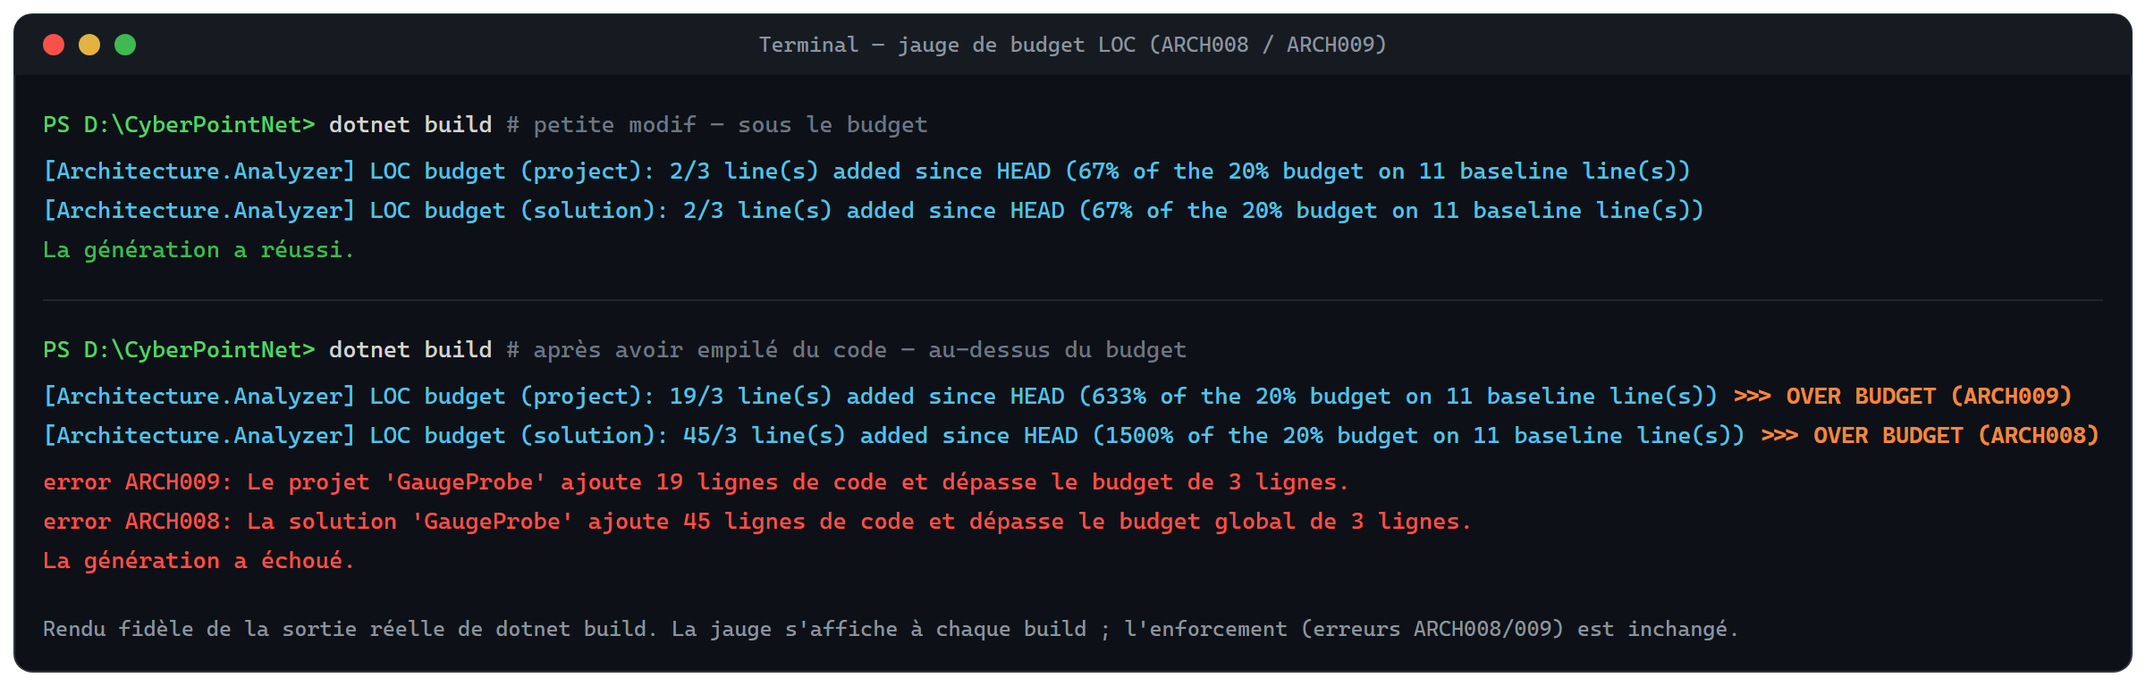
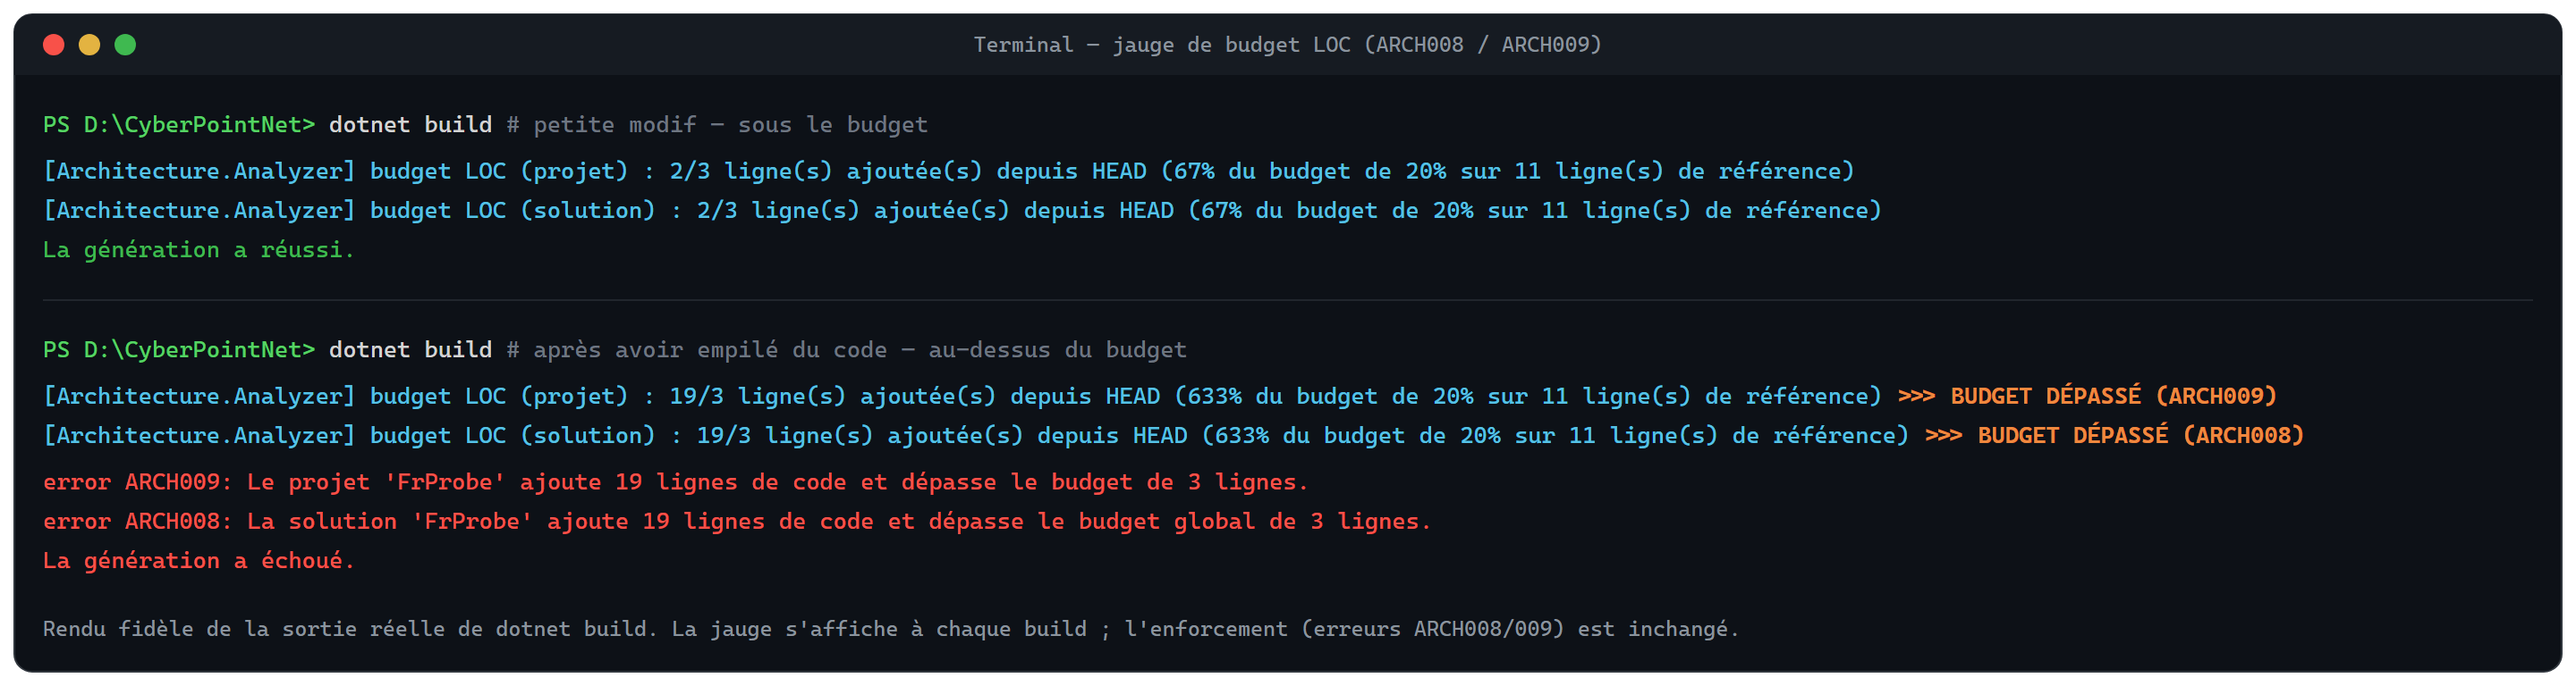
ARCH008/ARCH009 : jauge de budget localisee (FR/EN) + image dans le README
- La jauge par build suit desormais la culture UI du build (francais par defaut,
  anglais si la culture est "en"), comme les diagnostics ARCHxxx. Implemente via
  CultureInfo.CurrentUICulture dans la tache MSBuild (une tache inline ne peut pas
  utiliser les satellites .resx de l'analyseur).
- README racine + README du package illustrent la jauge (capture terminal francaise
  docs/loc-budget-gauge.png ; le README NuGet la reference via une URL absolue
  raw.githubusercontent.com pour s'afficher sur nuget.org).
- Version 1.6.1 -> 1.6.2.

diff --git a/Architecture.Analyzer/README.md b/Architecture.Analyzer/README.md
@@ -150,7 +150,9 @@ dotnet build /p:ArchitectureLocProjectBaselineLines=1000 \
              /p:ArchitectureLocSolutionAddedLines=120
 ```
 
-**Per-build gauge.** Whenever a budget percentage is set, the shipped MSBuild target prints the current usage on **every** build (project and solution), e.g. `[Architecture.Analyzer] LOC budget (project): 12/50 line(s) added since HEAD (24% of the 20% budget on 250 baseline line(s))`. This makes the pressure visible continuously — not only when the budget is blown — so you can course-correct before hitting the wall. Going over adds a `>>> OVER BUDGET (ARCHxxx)` marker (and ARCH008/ARCH009 still fail the build). The message reads the same `loc_budget_percent_*` keys from your `.editorconfig`, and is suppressed during IDE design-time builds.
+**Per-build gauge.** Whenever a budget percentage is set, the shipped MSBuild target prints the current usage on **every** build (project and solution), e.g. `[Architecture.Analyzer] LOC budget (project): 12/50 line(s) added since HEAD (24% of the 20% budget on 250 baseline line(s))`. This makes the pressure visible continuously — not only when the budget is blown — so you can course-correct before hitting the wall. Going over adds a `>>> OVER BUDGET (ARCHxxx)` marker (and ARCH008/ARCH009 still fail the build). The message reads the same `loc_budget_percent_*` keys from your `.editorconfig`, and is suppressed during IDE design-time builds. Like the ARCHxxx diagnostics, it follows the build's UI culture (French by default, English when the UI culture is English).
+
+![LOC budget gauge printed on every build, under budget and over budget](https://raw.githubusercontent.com/airmanitra-source/Architecture-analyzer/main/docs/loc-budget-gauge.png)
 
 ### ARCH010 — Required folder per project
 

diff --git a/README.md b/README.md
@@ -160,7 +160,7 @@ dotnet build /p:ArchitectureLocProjectBaselineLines=1000 \
              /p:ArchitectureLocSolutionAddedLines=120
 ```
 
-**Per-build gauge.** Whenever a budget percentage is set, the shipped MSBuild target prints the current usage on **every** build (project and solution), e.g. `[Architecture.Analyzer] LOC budget (project): 12/50 line(s) added since HEAD (24% of the 20% budget on 250 baseline line(s))`. This makes the pressure visible continuously — not only when the budget is blown — so you can course-correct before hitting the wall. Going over adds a `>>> OVER BUDGET (ARCHxxx)` marker (and ARCH008/ARCH009 still fail the build). The message reads the same `loc_budget_percent_*` keys from your `.editorconfig`, and is suppressed during IDE design-time builds.
+**Per-build gauge.** Whenever a budget percentage is set, the shipped MSBuild target prints the current usage on **every** build (project and solution), e.g. `[Architecture.Analyzer] LOC budget (project): 12/50 line(s) added since HEAD (24% of the 20% budget on 250 baseline line(s))`. This makes the pressure visible continuously — not only when the budget is blown — so you can course-correct before hitting the wall. Going over adds a `>>> OVER BUDGET (ARCHxxx)` marker (and ARCH008/ARCH009 still fail the build). The message reads the same `loc_budget_percent_*` keys from your `.editorconfig`, and is suppressed during IDE design-time builds. Like the ARCHxxx diagnostics, it follows the build's UI culture (French by default, English when the UI culture is English).
 
 ![LOC budget gauge printed on every build, under budget and over budget](docs/loc-budget-gauge.png)
 
